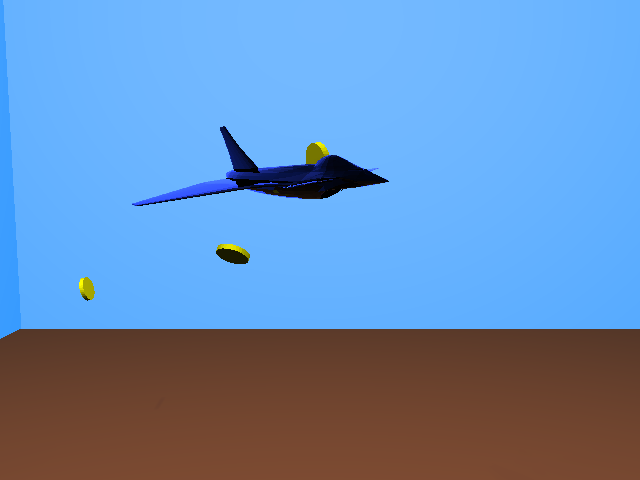
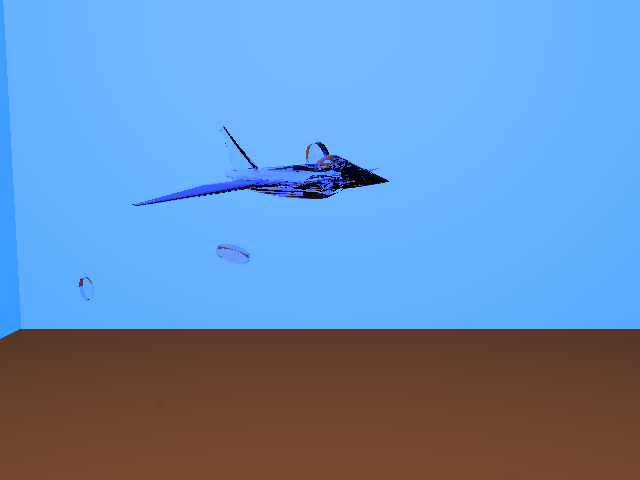
Texture progress

diff --git a/raytracer/Src/ExampleScene.cpp b/raytracer/Src/ExampleScene.cpp
@@ -7,7 +7,7 @@ void ExampleScene::initializeBitcoin()
 	////global settings
 	rtCamera(/*eye*/STPoint3(10.f,5.f,19.f),/*up*/STVector3(0.f,1.f,0.f),/*lookat*/STPoint3(10.f,3.f,0.f),/*fov*/45.f,/*aspect*/1.33f);
 	rtOutput(/*width*/640,/*height*/480,/*path*/"../Standard_Tests/Bitcoin.png");
-	rtBounceDepth(1);
+	rtBounceDepth(5);
 	rtUseTransparentShadow(true);
 	rtShadowBias(.001f);
 	rtSampleRate(1);
@@ -28,47 +28,39 @@ void ExampleScene::initializeBitcoin()
 //	rtScale(.01f,.01f,.01f);
 //	rtTriangleMesh("../Standard_Tests/custom/Paris/Paris2010_0.obj",true,false);
 //	rtPopMatrix();
-//  rtPushMatrix();
-//  rtTranslate(10.f,5.f,13.f);
-//	rtScale(.1f,.1f,.1f);
-//  rtRotate(2.f, 0.f, 0.f);
-//	rtTriangleMesh("../Standard_Tests/custom/fighter.obj",true,false);
-//	rtPopMatrix();
     
     Material mat_coin(/*ambient*/STColor3f(1.f,1.f,0.f),/*diffuse*/STColor3f(1.f,1.f,0.f),/*specular*/STColor3f(0.f,0.f,0.f),/*mirror*/STColor3f(0.f,0.f,0.f),/*shiness*/30.f,/*refr*/STColor3f(.7f,.6f,.9f));
     
-//    ,/*diffuse*/STColor3f(),/*spec*/STColor3f(1.f,1.f,1.f),/*mirror*/STColor3f(.1f,.1f,.1f),/*shiness*/30.f,/*refr*/STColor3f(.7f,.6f,.9f),/*sn*/1.3f);
+    rtPushMatrix();
+      rtTranslate(10.f,5.f,13.f);
+      rtScale(.2f,.2f,.2f);
+      rtRotate(0.3f, 30.f, 10.f);
+      rtMaterial(mat_glass2);
+      rtTriangleMesh("../Standard_Tests/custom/coin.obj",true,false);
+    rtPopMatrix();
     
     rtPushMatrix();
-    rtTranslate(10.f,5.f,13.f);
-	rtScale(.2f,.2f,.2f);
-    rtRotate(0.3f, 30.f, 10.f);
-    rtMaterial(mat_coin);
-	rtTriangleMesh("../Standard_Tests/custom/coin.obj",true,false);
-	rtPopMatrix();
+      rtTranslate(9.f,4.f,12.f);
+      rtScale(.2f,.2f,.2f);
+      rtRotate(5.f, 70.f, 50.f);
+      rtMaterial(mat_glass2);
+      rtTriangleMesh("../Standard_Tests/custom/coin.obj",true,false);
+    rtPopMatrix();
     
     rtPushMatrix();
-    rtTranslate(9.f,4.f,12.f);
-	rtScale(.2f,.2f,.2f);
-    rtRotate(5.f, 70.f, 50.f);
-    rtMaterial(mat_coin);
-	rtTriangleMesh("../Standard_Tests/custom/coin.obj",true,false);
-	rtPopMatrix();
+      rtTranslate(6.f,3.f,9.f);
+      rtScale(.2f,.2f,.2f);
+      rtRotate(50.f, 10.f, 10.f);
+      rtMaterial(mat_glass2);
+      rtTriangleMesh("../Standard_Tests/custom/coin.obj",true,false);
+    rtPopMatrix();
     
     rtPushMatrix();
-    rtTranslate(6.f,3.f,9.f);
-	rtScale(.2f,.2f,.2f);
-    rtRotate(50.f, 10.f, 10.f);
-    rtMaterial(mat_coin);
-	rtTriangleMesh("../Standard_Tests/custom/coin.obj",true,false);
-	rtPopMatrix();
-    
-    rtPushMatrix();
-    rtMaterial(mat_glass2);
-    rtTranslate(10.f,5.f,14.f);
-    rtScale(.1f,.1f,.1f);
-    rtRotate(.3f, 30.f, 10.f); // x, y, z rotations
-    rtTriangleMesh("../Standard_Tests/custom/fighter.obj",true,false);
+      rtMaterial(mat_glass2);
+      rtTranslate(10.f,5.f,14.f);
+      rtScale(.1f,.1f,.1f);
+      rtRotate(.3f, 30.f, 10.f); // x, y, z rotations
+      rtTriangleMesh("../Standard_Tests/custom/fighter.obj",true,false);
     rtPopMatrix();
   
 //	rtMaterial(mat_glass1);
@@ -89,6 +81,19 @@ void ExampleScene::initializeBitcoin()
 	rtMaterial(mat_wall);
 	////ceil
 	addGround(STPoint3(0.f,0.f,0.f),STVector2(100.f,100.f),false);
+  
+  rtLoadTexture("../Standard_Tests/custom/sunset.jpg"); // Open texture and set it to id = 0
+  rtBindTexture(0); // Attempt to bind the texture to the next object
+
+  // Trying something else to make textures work on walls
+  const STPoint3 min_corner = STPoint3(0.f,0.f,0.f);
+  const STVector2 size = STVector2(100.f,100.f);
+  
+  rtTriangle(min_corner,STPoint3(min_corner.x+size.x,min_corner.y,min_corner.z),STPoint3(min_corner.x+size.x,min_corner.y+size.y,min_corner.z));
+  rtTriangle(min_corner,STPoint3(min_corner.x+size.x,min_corner.y+size.y,min_corner.z),STPoint3(min_corner.x,min_corner.y+size.y,min_corner.z));
+
+  rtUnbindTexture();
+  
 	////background wall
 	addBackgroundWall(STPoint3(0.f,0.f,0.f),STVector2(100.f,100.f),true);
 	////forward wall
@@ -97,6 +102,7 @@ void ExampleScene::initializeBitcoin()
 	addWall(STPoint3(0.f,0.f,0.f),STVector3(0.f,100.f,0.f),STVector3(0.f,0.f,100.f),true);
 	////right wall
 	addWall(STPoint3(100.f,0.f,0.f),STVector3(0.f,100.f,0.f),STVector3(0.f,0.f,100.f),false);
+  
   
   ////use acceleration structure
   //////aabb tree
@@ -127,7 +133,7 @@ void ExampleScene::initializeSceneTexture()
 	rtUseShadow(true);
 	rtShadowBias(1e-4f);
 
-	rtLoadTexture("../Standard_Tests/stanford.png");
+	rtLoadTexture("../Standard_Tests/custom/sunset.jpg");
 	////lighting
 	rtAmbientLight(STColor3f(.1f,.1f,.1f));
 	rtPointLight(/*location*/STPoint3(-3.f,-3.f,6.f),STColor3f(.8f,.8f,.8f));

diff --git a/raytracer/Src/main.cpp b/raytracer/Src/main.cpp
@@ -22,13 +22,13 @@ int main(int argc, const char * argv[])
     //scene->initializeSceneAccelerationStructureBVH();
 
     ////scenes for assignment 6  
-	scene->initializeBitcoin();
+  scene->initializeBitcoin();
 	//scene->initializeSceneTransparentObject2();
 	//scene->initializeSceneDepthOfField();
 
 	////scenes for final
 	//scene->initializeSceneObjMesh();
-	//scene->initializeSceneTexture();
+//	scene->initializeSceneTexture();
 
 	////set rendering scene from script files
 	//scene->initializeSceneFromScript("../Standard_Tests/RecursiveTest.txt");
